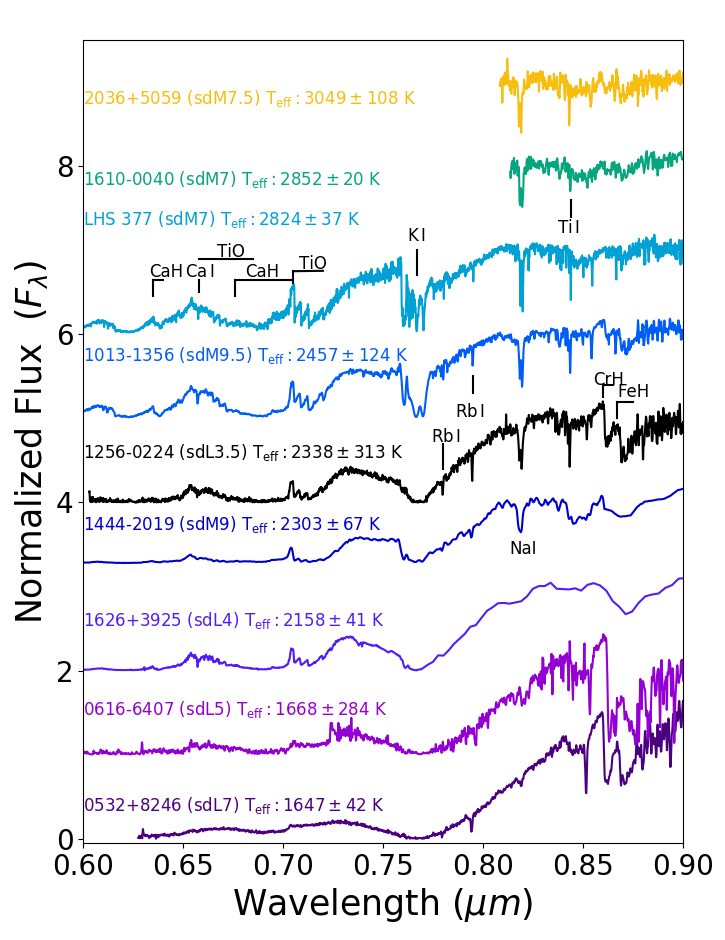
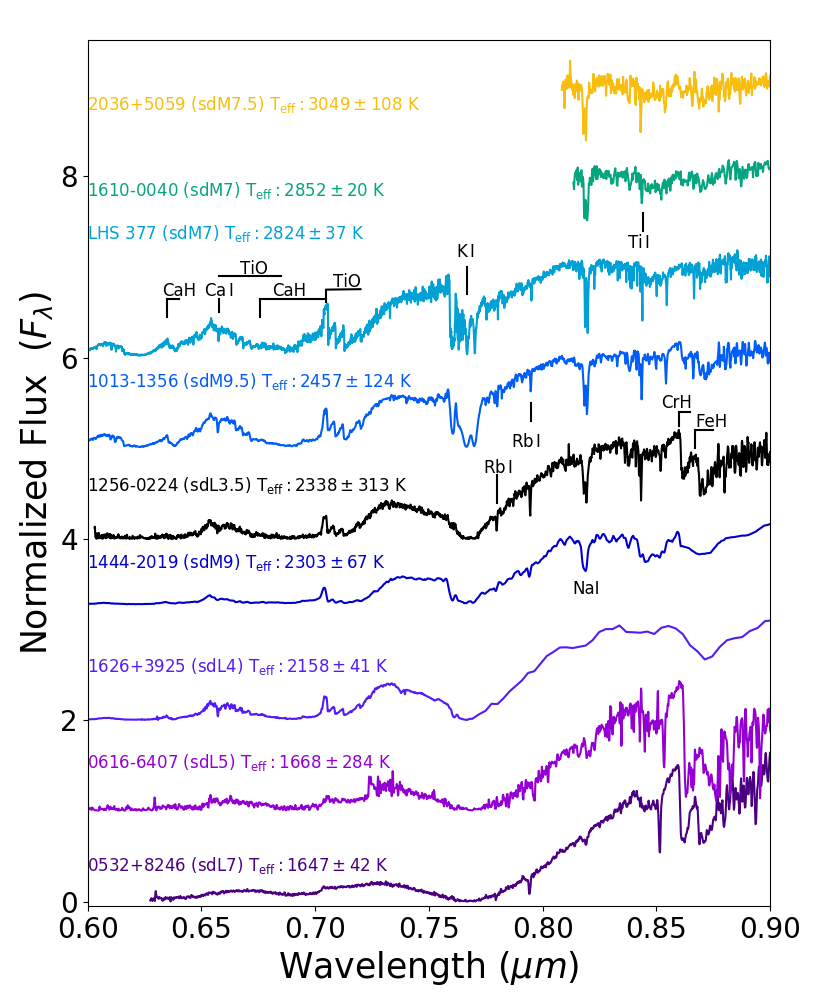
fixed error in saving plot size. Made plots comparing teff/spt and mass

diff --git a/SptvMass.py b/SptvMass.py
@@ -1,0 +1,51 @@
+import pandas as pd
+import matplotlib.pyplot as plt
+
+df_sub = pd.read_csv('Data/Subdwarf_Spt_v_Teff.txt', sep=" ", comment='#', header=None,
+                      names=["name", "SpT", "Teff", 'Teff_err', 'lbol', 'lbol_err', 'mass', 'mass_unc'])
+
+# -------------------------------------------------------------------------------------
+# ------------------------- Make Plot: Spt v mass ------------------------------------
+# -------------------------------------------------------------------------------------
+# ------ Set up figure layout --------
+fig = plt.figure()
+ax1 = fig.add_subplot(111)
+fig.set_size_inches(10, 6.45)  # to make sure proper size run entire code at once and change 8 to 6.45 to
+plt.gcf().subplots_adjust(bottom=0.15, left=0.15)
+plt.xlim([5, 30])
+#plt.ylim([500, 3200])
+
+# ------ Axes Labels --------
+plt.xticks([5, 10, 15, 20, 25, 30], ['M5', 'L0', 'L5', 'T0', 'T5', 'Y0'], fontsize=20)
+plt.yticks(fontsize=20)
+plt.xlabel('Spectral Type', fontsize=25)
+plt.ylabel('Mass (M$_\mathrm{J}$)', fontsize=25)
+
+# ----- Add data -----
+plt.scatter(df_sub['SpT'], df_sub['mass'], color='blue', s=100)
+ax1.errorbar(df_sub['SpT'], df_sub['mass'], yerr=df_sub['mass_unc'], c='blue', fmt='o')
+
+plt.savefig('Plots/SptVmass.png')
+
+# -------------------------------------------------------------------------------------
+# ------------------------- Make Plot: Teff v mass ------------------------------------
+# -------------------------------------------------------------------------------------
+# ------ Set up figure layout --------
+fig = plt.figure()
+ax1 = fig.add_subplot(111)
+fig.set_size_inches(10, 6.45)  # to make sure proper size run entire code at once and change 8 to 6.45 to
+plt.gcf().subplots_adjust(bottom=0.15, left=0.15)
+#plt.xlim([5, 30])
+#plt.ylim([500, 3200])
+
+# ------ Axes Labels --------
+plt.xticks(fontsize=20)
+plt.yticks(fontsize=20)
+plt.xlabel('Mass (M$_\mathrm{J}$)', fontsize=25)
+plt.ylabel('T$_\mathrm{eff}$ (K)', fontsize=25)
+
+# ----- Add data -----
+plt.scatter(df_sub['Teff'], df_sub['mass'], color='blue', s=100)
+ax1.errorbar(df_sub['Teff'], df_sub['mass'], yerr=df_sub['mass_unc'], c='blue', fmt='o')
+
+plt.savefig('Plots/TeffVmass.png')

diff --git a/Subdwarfs_redoptical.py b/Subdwarfs_redoptical.py
@@ -76,7 +76,7 @@ norm_df_2036 = df_2036['f']/(np.average(norm_region_2036['f']))
 fig = plt.figure()
 ax1 = fig.add_subplot(111)
 fig.set_size_inches(8, 11)  # to make sure proper size run entire code at once and change 8 to 6.45 to
-plt.gcf().subplots_adjust(bottom=0.15, left=0.15, top=0.15)
+plt.gcf().subplots_adjust(bottom=0.15, left=0.15)
 plt.xlim([0.6, 0.9])
 plt.ylim([-0.05, 9.5])
 
@@ -198,7 +198,7 @@ CrHd = pd.DataFrame()
 CrHd['x'] = [0.86, 0.86]
 CrHd['y'] = [5.25, 5.4]
 ax1.plot(CrHd['x'], CrHd['y'], color='k')
-ax1.text(0.85, 0.57, 'CrH', transform=ax1.transAxes, color='k', fontsize=12)
+ax1.text(0.84, 0.575, 'CrH', transform=ax1.transAxes, color='k', fontsize=12)
 
 FeH = pd.DataFrame()
 FeH['x'] = [0.867, 0.875]
@@ -208,6 +208,6 @@ FeH = pd.DataFrame()
 FeH['x'] = [0.867, 0.867]
 FeH['y'] = [5, 5.2]
 ax1.plot(FeH['x'], FeH['y'], color='k')
-ax1.text(0.89, 0.555, 'FeH', transform=ax1.transAxes, color='k', fontsize=12)
+ax1.text(0.89, 0.553, 'FeH', transform=ax1.transAxes, color='k', fontsize=12)
 
 plt.savefig('Plots/Subdwarfs_redoptical_split.png')

diff --git a/SpTvTeff.py b/SpTvTeff.py
@@ -20,7 +20,7 @@ df_young = df_comb[(df_comb['grav'] >= 1) & (df_comb['grav'] <= 2)]
 # ------ Set up figure layout --------
 fig = plt.figure()
 ax1 = fig.add_subplot(111)
-fig.set_size_inches(10, 645)  # to make sure proper size run entire code at once and change 8 to 6.45 to
+fig.set_size_inches(10, 6.45)  # to make sure proper size run entire code at once and change 8 to 6.45 to
 plt.gcf().subplots_adjust(bottom=0.15, left=0.15)
 plt.xlim([5, 30])
 plt.ylim([500, 3200])

diff --git a/SptvLbol.py b/SptvLbol.py
@@ -20,7 +20,7 @@ df_young = df_comb[(df_comb['grav'] >= 1) & (df_comb['grav'] <= 2)]
 # ------ Set up figure layout --------
 fig = plt.figure()
 ax1 = fig.add_subplot(111)
-fig.set_size_inches(10, 645)  # to make sure proper size run entire code at once and change 8 to 6.45 to
+fig.set_size_inches(10, 6.45)  # to make sure proper size run entire code at once and change 8 to 6.45 to
 plt.gcf().subplots_adjust(bottom=0.15, left=0.15)
 plt.xlim([5, 30])
 plt.ylim([-6, -2.3])
